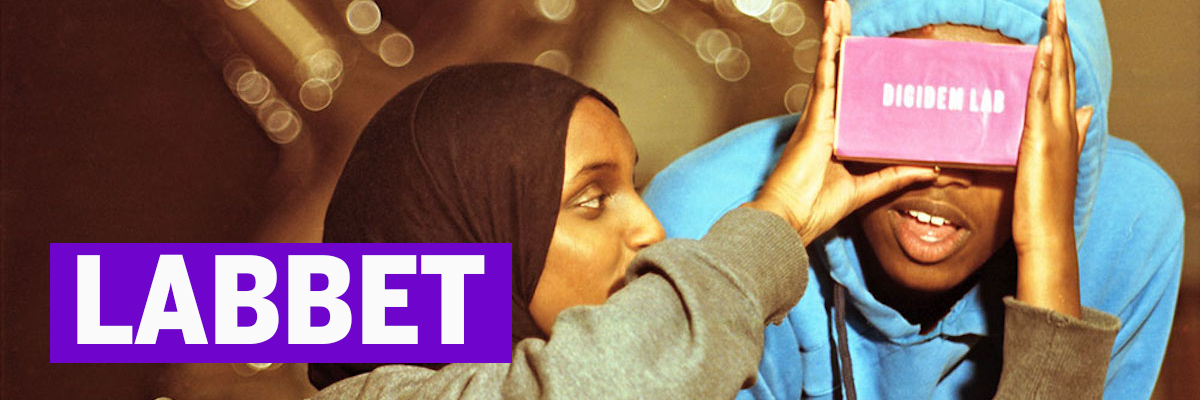
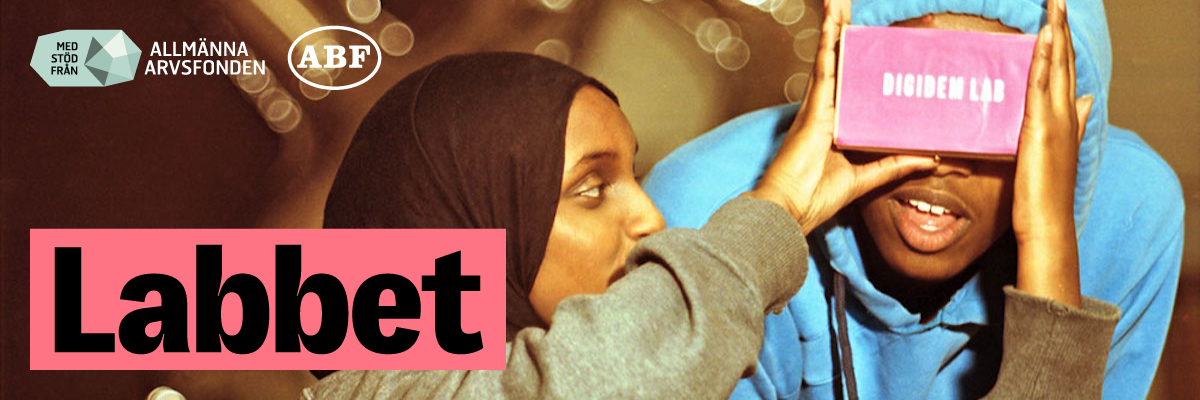
English part 1

diff --git a/_layouts/start.html b/_layouts/start.html
@@ -84,24 +84,28 @@ layout: default
   </div>
 </section>
 
-<section id="news" class="section">
-  <div class="container">
-    <h2 class="title is-6 is-size-5-tablet is-size-3-widescreen"><a href="https://news.digidemlab.org/">{{site.t[page.lang].news}}</a></h2>
-    <div class="columns is-desktop">
-      {% include teaser-small.html limit=2 %}
+{% if page.lang == 'sv' %}
+  <section id="news" class="section">
+    <div class="container">
+      <h2 class="title is-6 is-size-5-tablet is-size-3-widescreen"><a href="https://news.digidemlab.org/">{{site.t[page.lang].news}}</a></h2>
+      <div class="columns is-desktop">
+        {% include teaser-small.html limit=2 %}
+      </div>
+      <p class="has-text-right-desktop has-text-centered read-more">
+        <a class="button" href="https://news.digidemlab.org/">{{site.t[page.lang].more-news}}</a>
+      </p>
     </div>
-    <p class="has-text-right-desktop has-text-centered read-more">
-      <a class="button" href="https://news.digidemlab.org/">{{site.t[page.lang].more-news}}</a>
-    </p>
-  </div>
-</section>
+  </section>
+{% endif %}
 
 {% include partners.html %}
 
-<section id="banner" class="section">
-  <div class="container">
-    <a href="/lab"><img src="{{site.baseurl}}/assets/images/banner-labbet.jpg"></a>
-  </div>
-</section>
+{% for item in page.banner %}
+  <section id="banner" class="section">
+    <div class="container">
+      <a href="{{item.url}}"><img src="{{site.baseurl}}{{item.image}}"></a>
+    </div>
+  </section>
+{% endfor %}
 
 {% include footer.html %}

diff --git a/en/contact.html b/en/contact.html
@@ -4,4 +4,28 @@ description: Get in touch to discuss how we can help your social movement to fin
 ref: contact
 ingress-text: Get in touch to discuss how we can help your social movement to find
   new ways of participation.
+image: /uploads/communityorg.jpg
 ---
+
+{% assign crew=site.crew | where:"lang", page.lang | where:"category", "Digidem Lab" %}
+
+<div class="columns">
+  <div class="column is-offset-1-widescreen is-10-widescreen">
+    <div class="columns is-desktop is-multiline">
+      {% for item in crew %}
+        <div class="column is-half-desktop teaser-crew">
+          <figure class="image">
+            <img src="{{site.baseurl}}{{item.image}}">
+          </figure>
+          <h3 class="title is-6">{{item.title}}</h3>
+          <p>
+            {{item.job}}<br>
+            {{item.phone}}<br>
+            <a href="mailto:{{item.mail}}" class="text-white">{{item.mail}}</a>
+          </p>
+          {{item.content}}
+        </div>
+      {% endfor %}
+    </div>
+  </div>
+</div>

diff --git a/en/work.html b/en/work.html
@@ -1,8 +1,8 @@
 ---
-title: Våra uppdrag
-description: Våra tidigare uppdrag inom medborgardialoger och deltagande.
+title: Our work
+description: Our work in citizen participation and dialogues.
 layout: page
-ingress-text: Våra tidigare uppdrag inom medborgardialoger och deltagande.
+ingress-text: Our work in citizen participation and dialogues.
 image: "/uploads/medialab2.jpg"
 ref: work
 ---

diff --git a/_sass/_custom-variables.sass b/_sass/_custom-variables.sass
@@ -9,6 +9,11 @@ $desktop:       710px !default
 $widescreen:    960px + (2 * $gap) !default
 $fullhd:        1200px + (2 * $gap) !default
 
+// $tablet: 769px !default
+// $desktop: 960px + (2 * $gap) !default
+// $widescreen: 1152px + (2 * $gap) !default
+// $widescreen-enabled: true !default
+// $fullhd: 1344px + (2 * $gap) !default
 
 // Section
 $section-padding: 3rem 1.125rem !default

diff --git a/en/about.md b/en/about.md
@@ -1,22 +1,47 @@
 ---
-title: About Digidem Lab
-position: 1
-description: Digidem Lab is a non-profit lab for participatory democracy.
+title: We are Digidem Lab
+description: Digidem Lab erbjuder tjänster och utvecklar metoder och verktyg för framtidens deltagande demokrati.
 ref: about
-image: "/uploads/brainpuzzle.gif"
-ingress-text: Digidem Lab is a non-profit lab for participatory democracy based in
-  Sweden. We are backing [projects](/en/projects/), developing citizen platforms,
-  organising lectures, workshops and [hackathons](http://civictechgbg.se/en/).
+image: "/uploads/medialab.jpg"
+ingress-text: Vi arbetar utifrån Demokratiutredningens mål och beprövade internationella erfarenheter inom medborgardeltagande.
+
 ---
 
-## Democracy lab
-Digidem Lab brings together activists, researchers, programmers, designers and everyone who believes that another world is possible, to create the methods and tools for the participatory democracy of the future.
+Det gör vi genom att erbjuda metoder och verktyg för medborgardeltagande som inkluderar underrepresenterade grupper i beslutsfattande.
 
-## Citizen platforms
-Digidem Lab cooperates with the City of Madrid and regions in Gothenburg and Stockholm to develop Consul, the world's most used citizen platform. The "[Demokratiska Städer](http://demokratiskastader.se)" website is a collection of methods and tools for Swedish cities that want to take their citizen participation to the next level.
+Utgångspunkter är att skapa långsiktiga strukturerför dialog-processer. Medborgare ska känna sig trygga och stärkta i sitt deltagande och tjänstepersoner få effektiva verktyg för att förankra arbetssätt och metodik internt.
 
-## Social movements
-We provide workshops and lectures for social movements about new tools for organising, decision making and coordination of campaigns.
+<div class="box">
+  <h2>The Global Goals</h2>
+  <p class="is-medium">We work according to UN's Global Goals for Sustainable Development, focusing on:</p>
+  <p><strong>10.2</strong> By 2030, empower and promote the social, economic and political inclusion of all, irrespective of age, sex, disability, race, ethnicity, origin, religion or economic or other status.</p>
+  <p><strong>16.7</strong> Ensure responsive, inclusive, participatory and representative decision-making at all levels.</p>
+  <p><strong>11.3</strong> By 2030, enhance inclusive and sustainable urbanization and capacity for participatory, integrated and sustainable human settlement planning and management in all countries.</p>
+</div>
 
-## Hackathons
-In [CivicTechSweden](http://civictech.se/en/) developers, designers, activists and open data enthusiasts come together to build applications, visualisations and tools for citizens.
+En viktig del av vårt arbete är att vi också är ett labb - en plats för att utveckla och testa framtidens verktyg och metoder. Vi har hittills stöttat omkring 30 projekt, genomförda av unga personer, och genom nätverket [CivicTechSweden](http://civictech.se) ordnar vi hackathons och Meetups för att utveckla nya digitala tjänster för samhällsnytta.
+
+<div class="columns">
+  <div class="column">
+    <figure>
+      <img src="{{site.baseurl}}/uploads/communityorg.jpg" alt="Community organising">
+    </figure>
+  </div>
+  <div class="column">
+    <figure>
+      <img src="{{site.baseurl}}/uploads/usertesting.jpg" alt="User testing of Consul">
+    </figure>
+  </div>
+</div>
+<div class="columns">
+  <div class="column is-one-third">
+    <figure>
+      <img src="{{site.baseurl}}/uploads/paris.jpg" alt="Paris participatory budget">
+    </figure>
+  </div>
+  <div class="column">
+    <figure>
+      <img src="{{site.baseurl}}/uploads/workshop.jpg" alt="Workshop">
+    </figure>
+  </div>
+</div>

diff --git a/en/services.md b/en/services.md
@@ -1,0 +1,78 @@
+---
+title: Our services
+description: Digidem Lab offers a range of methods and platforms for citizen participation.
+ref: services
+image: "/uploads/usertesting-top.jpg"
+ingress-text: We design inclusive processes for citizen participation.
+contact: true
+services:
+  - title: Our process
+    items:
+    - title: Initial assessment
+      icon: /assets/images/icon-mapping.svg
+      items:
+        - text: Initial planning with those responsible for the implementation.
+        - text: Mapping of local resources, roles and challenges.
+    - title: Process design
+      icon: /assets/images/icon-process.svg
+      items:
+        - text: Design of a step-by-step modell with instructions for every phase.
+        - text: Getting support for the methods from relevant decision makers.
+        - text: Workshops for key people from staff and the local community.
+    - title: Technical development
+      icon: /assets/images/icon-a-to-b.svg
+      items:
+        - text: Installation of participation platform based on initial assessment of needs.
+        - text: Adaptation of colours and fonts.
+        - text: Training in usage and administration of the platform.
+    - title: Service and further development
+      icon: /assets/images/icon-future.svg
+      items:
+        - text: Hosting and service of the platform.
+        - text: Further adjustments or workshops.
+
+prices:
+  - title: Prices
+    items:
+    - title: Small
+      icon: /assets/images/icon-small.svg
+      items:
+      - text: "Process with less than 20 000 potential participants."
+      - text: "Initial assessment, process design and technical development: € 4000"
+      - text: "Service and hosting: € 200 per active month, € 100 per inactive."
+    - title: Medium
+      icon: /assets/images/icon-medium.svg
+      items:
+      - text: "City or district with 20.000–80.000 inhabitants"
+      - text: "Initial assessment, process design and technical development: € 6000"
+      - text: "Service and hosting: € 500 per active month, € 250 per inactive."
+    - title: Large
+      icon: /assets/images/icon-large.svg
+      items:
+      - text: "Prices for larger installations are calculated based on number of participants and need for training and support. Please get in touch for a preliminary offer!"
+---
+
+## Inclusive participation
+We design citizen centered processes based on international experiences and methods, to specifically involve under-represented groups.
+
+## Security and flexibility
+We use Consul and Decidim, two of the most advanced digital platforms for citizen participation, with millions of users all over the world.
+
+## Simpler administration of dialogues
+By implementing a digital platform for citizen participation, local authorities can administer all their processes from one place.
+
+<figure class="image is-2by1">
+  <img src="{{site.baseurl}}/uploads/usertesting.jpg" alt="Usertesting of Consul">
+</figure>
+<div class="columns">
+  <div class="column">
+    <figure class="image is-2by1">
+      <img src="{{site.baseurl}}/uploads/workshop.jpg" alt="Workshop">
+    </figure>
+  </div>
+  <div class="column">
+    <figure class="image is-2by1">
+      <img src="{{site.baseurl}}/uploads/paris2.jpg" alt="Participatory budget in Paris">
+    </figure>
+  </div>
+</div>

diff --git a/en/index.md b/en/index.md
@@ -1,10 +1,23 @@
 ---
-title: The future of participation in your hands
+title: Designing Participatory Democracy
 position: 0
-description: Digidem Lab is a space to create new processes for democratic participation.
-  We put new tools for collective intelligence in your hands.
-ingress-text: Digidem Lab is a space to create new processes for democratic participation.
+description: Digidem Lab offers services and develops platforms for the participatory democracy of the future.
 ref: start
-image: "/uploads/JBe2745-04ret.jpg"
+image: "/uploads/biskopsgarden.jpg"
+mission:
+  title: Our offer
+  item:
+  - title: Inclusive participation
+    image: /uploads/usertesting-small.jpg
+    text: We design citizen centered processes based on international experiences and methods, to specifically involve under-represented groups.
+  - title: Security and flexibility
+    image: /uploads/workshop-small.jpg
+    text: We use Consul and Decidim, two of the most advanced digital platforms for citizen participation, with millions of users all over the world.
+  - title: Simpler administration of dialogues
+    image: /uploads/paris-small.jpg
+    text: By implementing a digital platform for citizen participation, local authorities can administer all their processes from one place.
+banner:
+  - image: /assets/images/banner-labbet-en.jpg
+    url: /lab/en/
 layout: start
 ---

diff --git a/services.md b/services.md
@@ -1,6 +1,5 @@
 ---
 title: Vårt erbjudande
-position: 1
 description: Digidem Lab erbjuder nya verktyg och metoder för medborgardeltagande.
 ref: services
 links:
@@ -34,7 +33,7 @@ services:
         - text: Installation av medborgarplattform utifrån identifierade behov.
         - text: Anpassingar av färger och typsnitt.
         - text: Utbildning i användning och administration av plattformen.
-    - title: Drift och vidareutvecling
+    - title: Drift och vidareutveckling
       icon: /assets/images/icon-future.svg
       items:
         - text: Drift och hosting av plattformen.
@@ -58,7 +57,7 @@ prices:
     - title: Stor
       icon: /assets/images/icon-large.svg
       items:
-      - text: "Priser för större eller installationer beräknas utifrån antal användare och behov av utbildning och support. Kontakta oss gärna för att få en prisuppskattning eller offert!"
+      - text: "Priser för större installationer beräknas utifrån antal användare och behov av utbildning och support. Kontakta oss gärna för att få en prisuppskattning eller offert!"
 ---
 
 ## Inkluderande deltagande

diff --git a/about.md b/about.md
@@ -1,14 +1,12 @@
 ---
 title: Vi är Digidem Lab
-position: 1
-description: Digidem Lab erbjuder tjänster och utvecklar metoder och verktyg för framtidens deltagande demokrati.
+description: "Vi arbetar utifrån FN:s hållbarhetsmål och beprövade internationella erfarenheter inom medborgardeltagande."
 ref: about
 image: "/uploads/medialab.jpg"
-ingress-text: Vi arbetar utifrån Demokratiutredningens mål och beprövade internationella erfarenheter inom medborgardeltagande.
+ingress-text: "Vi arbetar utifrån FN:s hållbarhetsmål och beprövade internationella erfarenheter inom medborgardeltagande."
 
 ---
 
-## Rubrik här?
 Det gör vi genom att erbjuda metoder och verktyg för medborgardeltagande som inkluderar underrepresenterade grupper i beslutsfattande.
 
 Utgångspunkter är att skapa långsiktiga strukturerför dialog-processer. Medborgare ska känna sig trygga och stärkta i sitt deltagande och tjänstepersoner få effektiva verktyg för att förankra arbetssätt och metodik internt.

diff --git a/index.md b/index.md
@@ -16,9 +16,8 @@ mission:
   - title: Enklare hantering av dialoger
     image: /uploads/paris-small.jpg
     text: Genom att implementera en digital plattform för dialog kan kommuner samla sina processer på en och samma plats. Det underlättar för medborgarna och förenklar det långsiktiga demokratiarbetet.
-news-flash:
-  - text: Digidem Lab erbjuder nya verktyg och metoder för medborgardeltagande. Vi hjälper er med processdesign av deltagandeprocesser, installation och utbildning i digitala plattformar för deltagande och erbjuder workshops och föreläsningar.
-    link-title: Läs mer om våra tjänster
-    link: /services
+banner:
+  - image: /assets/images/banner-labbet.jpg
+    url: /lab
 layout: start
 ---
